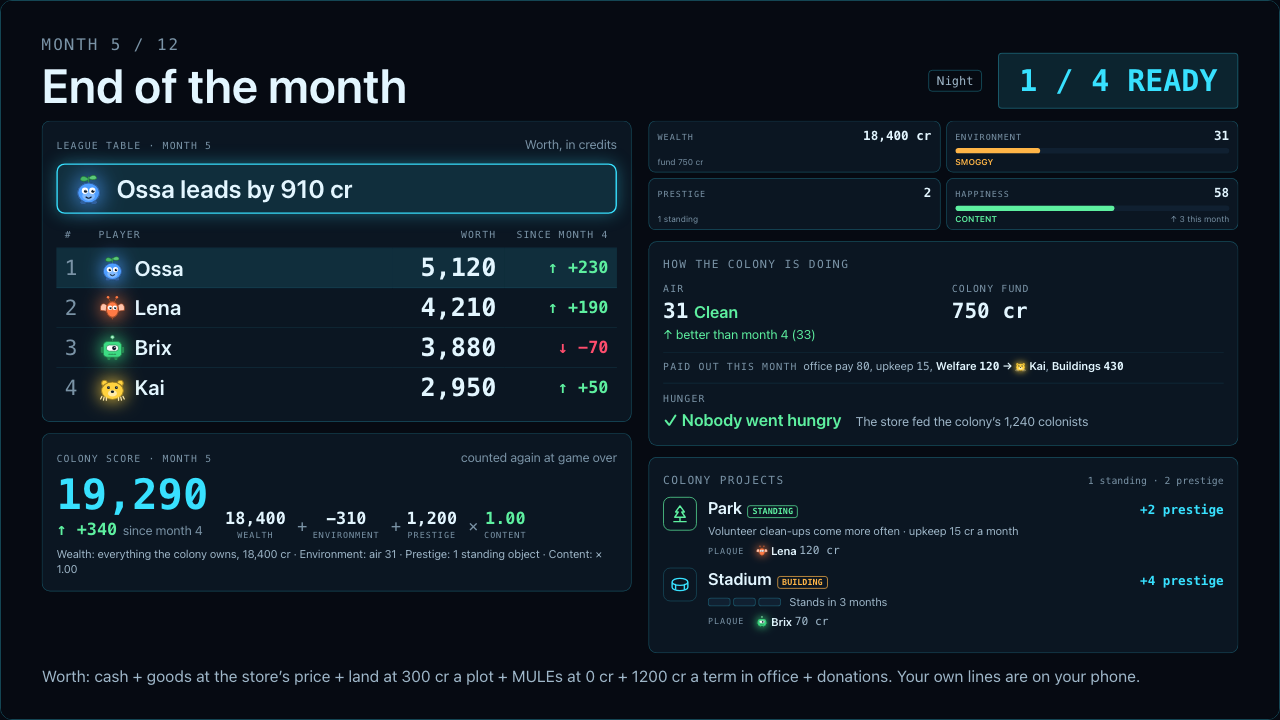
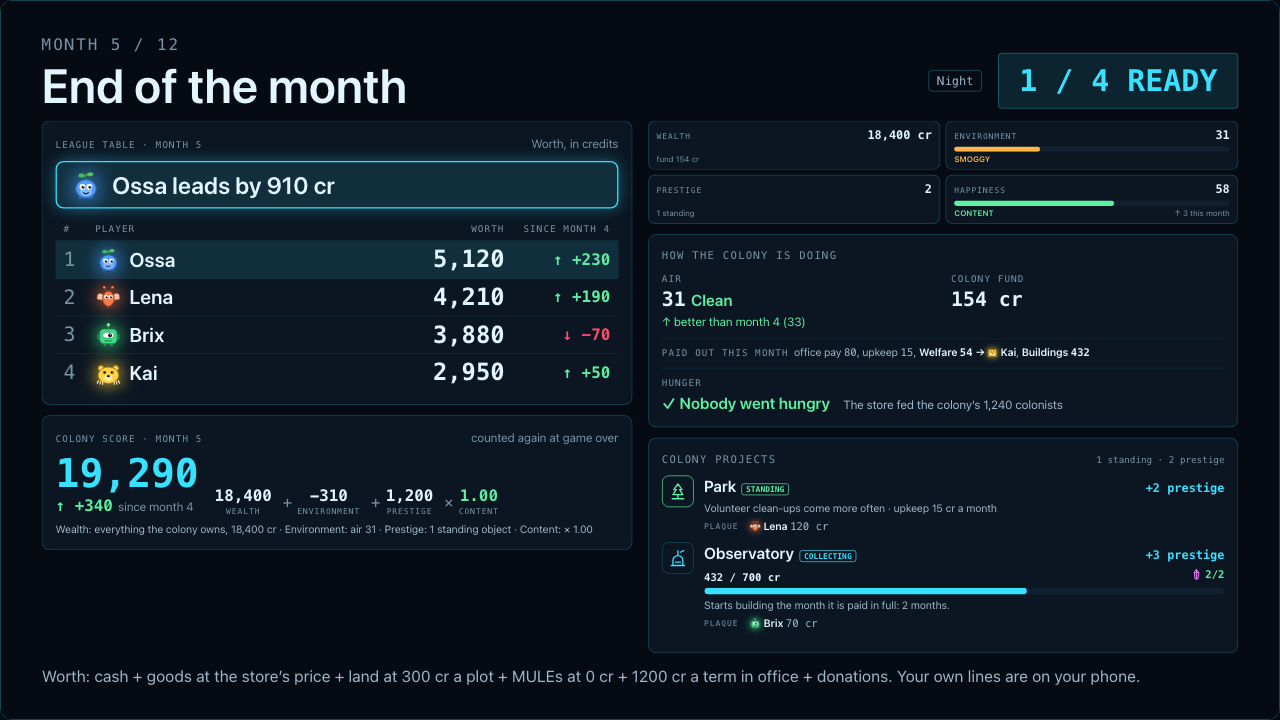
chore(mocks): politics P3, WS7's AM-5 answers
The Projects line goes toward the Observatory on section 3's worked example
(540 spare: 432 and 54), and the month end pays the same (Welfare 54 -> Kai,
Buildings 432). welfareTo is sent at every share; the Governor's desk names
the recipient at Welfare 0%. The overrule's ready bar: Cast my vote, then
Waiting for the overrule vote; Continue in the reveal. Shots refreshed.

Changed region(s): [[0.0312, 0.1833, 0.9688, 0.8861], [0.9062, 0.7639, 0.9688, 0.825]]

diff --git a/design/mocks/politics-budget/src/fixture.ts b/design/mocks/politics-budget/src/fixture.ts
@@ -120,6 +120,8 @@ export interface Scene {
   ballots: Record<string, boolean>;
   /** Who has cast (Done). The AI casts as the ballot opens. */
   done: string[];
+  /** In the reveal, who has pressed Continue. */
+  continued?: string[];
 }
 
 const DEFAULT: Shares = { projects: 100, welfare: 0 };
@@ -167,8 +169,7 @@ function budgetView(scene: Scene): BudgetView {
   return {
     lines: LINES.map((line) => ({ line, share: shares[line], start: scene.budgetStart[line], maxShare: BUDGET[line].maxShare, step: BUDGET.step, credits: creditsOf(line, shares[line]), maxCredits: BUDGET[line].maxCredits })),
     kept: 100 - shares.projects - shares.welfare,
-    // FINDING: the spec's welfareTo is null while Welfare's share is 0 (S5-RULE-4 row 1), so a Governor's draft could not
-    // name the player before Set. The mock sends who would get it at any share; the screens name them only above 0.
+    // Sent at every share, 0% included (AM-5): the Governor sees the recipient before setting one.
     welfareTo: welfareTo(BASE_PLAYERS, 'ossa'),
     setBy: scene.budget.setBy,
     // In RC a call freezes the tax only (S5-RULE-2 "in RC"): the budget never holds.
@@ -204,14 +205,14 @@ function canOverrule(scene: Scene, id: string): Record<OverruleTarget, true | Ov
   return { tax, budget: 'notYet', confidence: 'sheriffOnly' };
 }
 
-/** The colony: the Park stands, the Stadium waits for 430 cr (the Projects line's "toward the Stadium"). */
+/** The colony: the Park stands; the Observatory is commissioned and waits for its credits ("toward the Observatory", AM-5). */
 function colonyView(scene: Scene): ColonyView {
   const catalogue = (Object.keys(PRESTIGE) as PrestigeId[]).map((id) => {
     const p = PRESTIGE[id];
-    const open = id === 'park' || id === 'stadium';
-    return { id, name: p.name, credits: p.credits, goods: p.goods, buildMonths: p.buildMonths, prestige: p.prestige, upkeep: p.upkeep, commissionable: !open, why: open ? 'Already commissioned' : null };
+    const open = id === 'park' || id === 'observatory';
+    return { id, name: p.name, credits: id === 'observatory' ? OBSERVATORY.credits : p.credits, goods: p.goods, buildMonths: p.buildMonths, prestige: p.prestige, upkeep: p.upkeep, commissionable: !open, why: open ? 'Already commissioned' : null };
   });
-  const stadium = PRESTIGE.stadium;
+  const obs = { ...PRESTIGE.observatory, ...OBSERVATORY };
   const monthEnd = scene.moment === 'monthEnd';
   return {
     gauges: { wealth: 18_400, environment: 31, prestige: 2, happiness: 58, band: 'content' },
@@ -224,9 +225,9 @@ function colonyView(scene: Scene): ColonyView {
         place: { x: 1, y: 2, w: 1, h: 1 }, prestige: 2, upkeep: 15, repairCost: null, plaque: [{ playerId: 'lena', value: 120 }],
       },
       {
-        id: 'stadium', name: stadium.name, stage: monthEnd ? 'building' : 'commissioned', cost: { credits: stadium.credits, goods: stadium.goods },
-        funded: { credits: monthEnd ? stadium.credits : stadium.credits - STADIUM_NEEDS, goods: stadium.goods }, buildMonths: stadium.buildMonths, monthsLeft: monthEnd ? stadium.buildMonths : null,
-        place: null, prestige: stadium.prestige, upkeep: stadium.upkeep, repairCost: null, plaque: [{ playerId: 'brix', value: 70 }],
+        id: 'observatory', name: obs.name, stage: 'commissioned', cost: { credits: obs.credits, goods: obs.goods },
+        funded: { credits: monthEnd ? MONTH_END.out.project : 0, goods: obs.goods }, buildMonths: obs.buildMonths, monthsLeft: null,
+        place: null, prestige: obs.prestige, upkeep: obs.upkeep, repairCost: null, plaque: [{ playerId: 'brix', value: 70 }],
       },
     ],
     catalogue,
@@ -236,19 +237,22 @@ function colonyView(scene: Scene): ColonyView {
   };
 }
 
-/** The Stadium's credits still to come: what "about 430 cr toward the Stadium" names (Projects 80% of 540 is 432). */
-export const STADIUM_NEEDS = 430;
+/**
+ * The Observatory's credits as WS7 gives them (AM-5, via the PM: 700 cr, so all of Projects' 432 goes to it). Trunk's
+ * config.ts PRESTIGE.observatory says 350 cr (feat/strategist and ws7-politics-rc alike): a fixture value until they agree.
+ */
+export const OBSERVATORY = { credits: 700 } as const;
 
 /**
- * Month 5's upkeep (moment 5). The month's taxes and grant filled the fund; then office pay and the Park's upkeep; then
- * the lines on what is left above the reserve (S5-RULE-3): 1,300 − 100 = 1,200 spare, so Welfare 10% is 120 → Kai and
- * Projects 80% may take 960, of which the Stadium needed its last 430 ("Buildings 430"). The rest, 750, stays.
+ * Month 5's upkeep (moment 5), on §3's worked example as the planning desk shows it (AM-5): after the grant, office pay
+ * and the Park's upkeep the fund holds 640, so 540 spare (S5-RULE-3); Welfare 10% is 54 → Kai, Projects 80% is 432,
+ * all of it to the Observatory ("Buildings 432"); 10% stays. `start` is fixture only: no screen shows it.
  */
 export const MONTH_END = {
-  start: FUND,
-  in: { salesTax: 555, grant: 200 },
-  out: { officePay: 80, upkeep: 15, welfare: 120, project: 430 },
-  balance: FUND + 555 + 200 - 80 - 15 - 120 - 430,
+  start: FUND - 200 + 80 + 15,
+  in: { grant: 200 },
+  out: { officePay: 80, upkeep: 15, welfare: 54, project: 432 },
+  balance: FUND - 54 - 432,
 } as const;
 
 /** The news lines a call, a withdrawal and the result add (S5-C7), none naming a voter (§3.4). */
@@ -279,8 +283,8 @@ const NONE = Object.fromEntries(GOODS.map((g) => [g, 0])) as MyView['stock'];
 function readyIn(scene: Scene, p: PlayerView): boolean {
   if (p.isAi) return true;
   if (scene.moment === 'ballot') return scene.done.includes(p.id);
-  // In the reveal everyone has cast; planning ends at the reveal's close.
-  if (scene.moment === 'reveal') return true;
+  // In the reveal: who has pressed Continue (AM-5's Ready words).
+  if (scene.moment === 'reveal') return (scene.continued ?? []).includes(p.id);
   return false;
 }
 
@@ -349,6 +353,7 @@ export function apply(scene: Scene, from: string, intent: Intent): Scene {
     case 'voteOverrule':
       return scene.moment === 'ballot' ? { ...scene, ballots: { ...scene.ballots, [from]: intent.yes } } : scene;
     case 'ready':
+      if (scene.moment === 'reveal') return (scene.continued ?? []).includes(from) ? scene : { ...scene, continued: [...(scene.continued ?? []), from] };
       return scene.moment === 'ballot' && !scene.done.includes(from) ? { ...scene, done: [...scene.done, from] } : scene;
     default:
       return scene;

diff --git a/design/mocks/politics-budget/src/App.tsx b/design/mocks/politics-budget/src/App.tsx
@@ -21,7 +21,7 @@ import { frameSlots, OpenDesk } from './slots';
 /** The key decisions, one line each. */
 const DECISIONS: [string, string][] = [
   ['P12', 'The budget sits in the Governor desk right under the tax, before the law picker: the tax fills the fund, the budget spends it.'],
-  ['P12', 'Each line says what it pays at today’s fund and where it goes (“about 430 cr toward the Stadium”, “about 50 cr to Kai, last on Worth”); “about”, because the month’s taxes still add to it.'],
+  ['P12', 'Each line says what it pays at today’s fund and where it goes (“432 cr toward the Observatory”, “54 cr to Kai, last on Worth”: §3’s worked example, 540 cr spare). At Welfare 0% it says who it would go to.'],
   ['P12', 'Welfare’s + takes from what is kept, then from Projects; Projects’ + takes only from what is kept; − always gives back to the fund. So no sum can pass 100.'],
   ['P12', 'Commissioning moves under the Projects line, the real Commission unchanged; the Colony desk no longer shows it.'],
   ['P12', 'A call freezes the tax only (S5-RULE-2 in RC): the tax row turns read-only with who called it; the budget stays live.'],
@@ -29,10 +29,11 @@ const DECISIONS: [string, string][] = [
   ['P13', '“Call an overrule vote” sits at the tax line in the Colony desk’s fund card, only once the tax has moved this month (PM, 7 Nov).'],
   ['P13', 'While a call waits, one line under Now on every phone says who called it; a tap opens the fund card. It is the strike alert’s place: no new tab, no tool.'],
   ['P13', 'The ballot takes the hub’s stage like the law ballot, in its look: the question, “5% at the month’s start → 10% now”, Yes / No, “needs 5 of 9 votes”, Cast my vote in the ready bar.'],
-  ['P13', 'Who has voted counts Cast (done), not the preset ballots: the caller’s Yes and the Governor’s No exist from the start and would read as votes already in.'],
+  ['P13', 'Who has voted is done (who has cast), never the preset ballots: the caller’s Yes and the Governor’s No exist from the start (AM-5).'],
+  ['P13', 'The ready bar: “Cast my vote” until you cast, then “Waiting for the overrule vote”; in the reveal, “Continue” (AM-5).'],
   ['P14', 'The TV’s planning header gains the budget line under the promise line. The call’s banner heads the side column, above who the table waits for: in the header it shrank the body to 0.763 (TV-FIT), in the side the news gives way and it stays at 0.896.'],
   ['P14', 'The overrule panel is TvCouncil’s frame. Its reveal bar is all the table’s votes with the mark at “needed”, not the half-way mark the law’s bar uses: the rules differ.'],
-  ['P15', 'The month end’s colony panel gains one line, “Paid out this month”: office pay, upkeep, Welfare 120 → Kai, Buildings 430. Out only: TV-FIT is 0.746 as built, 0.703 with this line, 0.653 with an In line too.'],
+  ['P15', 'The month end’s colony panel gains one line, “Paid out this month”: office pay, upkeep, Welfare 54 → Kai, Buildings 432. Out only. TV-FIT, open finding: with the Observatory collecting, 0.701 as built and 0.663 with this line, under the 0.7 floor.'],
 ];
 
 interface StateDef {

diff --git a/design/mocks/politics-budget/src/proposed/OverruleBallot.tsx b/design/mocks/politics-budget/src/proposed/OverruleBallot.tsx
@@ -135,19 +135,27 @@ export function OverruleRail() {
 export const OVERRULE_STAGE: StageSlot = { id: 'overrule-ballot', show: ballotOpen, phase: () => 'Overrule vote', Body: OverruleBallot, Rail: OverruleRail };
 
 const STILL = 'Still waiting for';
+/** AM-5's Ready words: open and not cast, "Cast my vote" (as the election's ballot); cast, "Waiting for the overrule vote". */
 const OVERRULE_WORDS: ReadyWords = {
   ready: 'Cast my vote',
-  done: 'You voted',
+  done: 'Waiting for the overrule vote',
   waiting: STILL,
-  all: 'Everyone has voted. The result is shown.',
+  all: 'Everyone has cast. The result is shown.',
   confirm: () => 'Close the vote now? Votes not cast count against undoing it, and the result is shown.',
 };
+/** The reveal's: Continue, then who the land grant waits for. */
+const REVEAL_WORDS: ReadyWords = {
+  ready: 'Continue',
+  done: 'Waiting for the others',
+  waiting: STILL,
+  all: 'Everyone is on. The land grant starts.',
+  confirm: () => 'Go on to the land grant now?',
+};
 
-/** The ready bar in the overrule ballot: Cast my vote, live once this seat has a Yes or No (the caller's and Governor's start set). */
+/** The ready bar in the overrule ballot and its reveal: Cast my vote, live once this seat has a Yes or No (the caller's and Governor's start set); then Continue. */
 export function overruleReadyWords({ view, me }: HubSeat): ReadyBarWords | null {
   const stage = view.politics?.overrule?.stage;
-  // In the reveal nothing waits for anyone: the land grant follows its clock (S5-RULE-7), so the bar says so.
-  if (stage === 'reveal') return { ...OVERRULE_WORDS, done: 'You voted', all: 'The land grant follows the result.', label: 'VOTED', canReady: false };
+  if (stage === 'reveal') return { ...REVEAL_WORDS, label: 'READY', canReady: true };
   if (stage !== 'ballot') return null;
   return { ...OVERRULE_WORDS, label: 'VOTED', canReady: (me.politics?.overruleBallot ?? null) !== null };
 }

diff --git a/design/mocks/politics-budget/src/proposed/GovernorBudget.tsx b/design/mocks/politics-budget/src/proposed/GovernorBudget.tsx
@@ -113,9 +113,16 @@ interface Editor {
   onChange(s: Shares): void;
 }
 
-/** "about 430 cr toward the Stadium", "about 50 cr to Kai, last on Worth": what a share pays, and where. */
+/** "432 cr toward the Observatory", "54 cr to Kai, last on Worth": what a share pays, and where. At Welfare 0%, who it would go to (AM-5). */
 function Pays({ view, budget, id, share, className }: { view: MuleView; budget: BudgetView; id: RcLine; share: number; className?: string }) {
   const credits = creditsOf(id, share, view.politics!.fund);
+  const to = view.players.find((p) => p.id === budget.welfareTo)?.name;
+  if (id === 'welfare' && share === 0 && to)
+    return (
+      <span className={cx('min-w-0 text-[11px] leading-tight text-ink-2 @min-[1100px]/shell:text-sm', className)} data-testid="budget-pays-welfare">
+        would go to {to}, last on Worth
+      </span>
+    );
   return (
     <span className={cx('min-w-0 text-[11px] leading-tight text-ink-2 @min-[1100px]/shell:text-sm', className)} data-testid={`budget-pays-${id}`}>
       {credits === 0 ? lineGoes(id, view, budget.welfareTo, 0) : `${about(credits)} ${lineGoes(id, view, budget.welfareTo, credits)}`}

diff --git a/design/mocks/politics-budget/src/proposed/words.ts b/design/mocks/politics-budget/src/proposed/words.ts
@@ -9,10 +9,10 @@ export type LineId = BudgetView['lines'][number]['line'];
 
 export const LINE_NAME: Record<LineId, string> = { projects: 'Projects', welfare: 'Welfare', security: 'Security' };
 
-/** "about 430 cr": a share's credits at today's fund, to the nearest 10. The fund still moves before upkeep. */
-export const about = (credits: number) => `about ${credits < 10 ? credits : Math.round(credits / 10) * 10} cr`;
+/** "432 cr": a share's credits at today's fund (budgetCredits), as §3's worked example states them (AM-5). */
+export const about = (credits: number) => `${credits.toLocaleString('en')} cr`;
 
-/** Where a line's money goes, in a few words: "toward the Stadium", "to Kai, last on Worth". */
+/** Where a line's money goes, in a few words: "toward the Observatory", "to Kai, last on Worth". */
 export function lineGoes(line: LineId, view: Pick<MuleView, 'players' | 'colony'>, welfareTo: string | null, credits: number): string {
   if (credits === 0) return line === 'welfare' ? 'nothing this month' : 'nothing to buildings';
   if (line === 'welfare') {

diff --git a/design/mocks/politics-budget/src/proposed/FundLines.tsx b/design/mocks/politics-budget/src/proposed/FundLines.tsx
@@ -11,8 +11,9 @@ import { fmt, toSlot } from '../../../../../apps/web/src/game/derive';
  * ColonyView.ledger's out and ColonyView.welfare (S5-C8); month-end.ts's colonyReport gains them.
  *
  * Out only, in the spec's list: office pay, upkeep, Welfare and whom it went to, buildings. One line on the TV, because
- * the month end sits near TV-FIT's floor already (0.746 at four seats as built): a second line, the fund's income, took
- * it to 0.653. The balance beside it is the fund after them. Security is after RC and has no place here.
+ * the month end sits at TV-FIT's floor already. OPEN FINDING (measured 7 Nov): with the Observatory collecting, the month
+ * end is 0.701 as built and 0.663 with this line, under the 0.7 floor (with a Stadium building instead: 0.746 → 0.703).
+ * The balance beside it is the fund after them. Security is after RC and has no place here.
  */
 
 const OUT_ORDER: FundLine[] = ['officePay', 'upkeep', 'repair', 'strikePay', 'welfare', 'project'];
